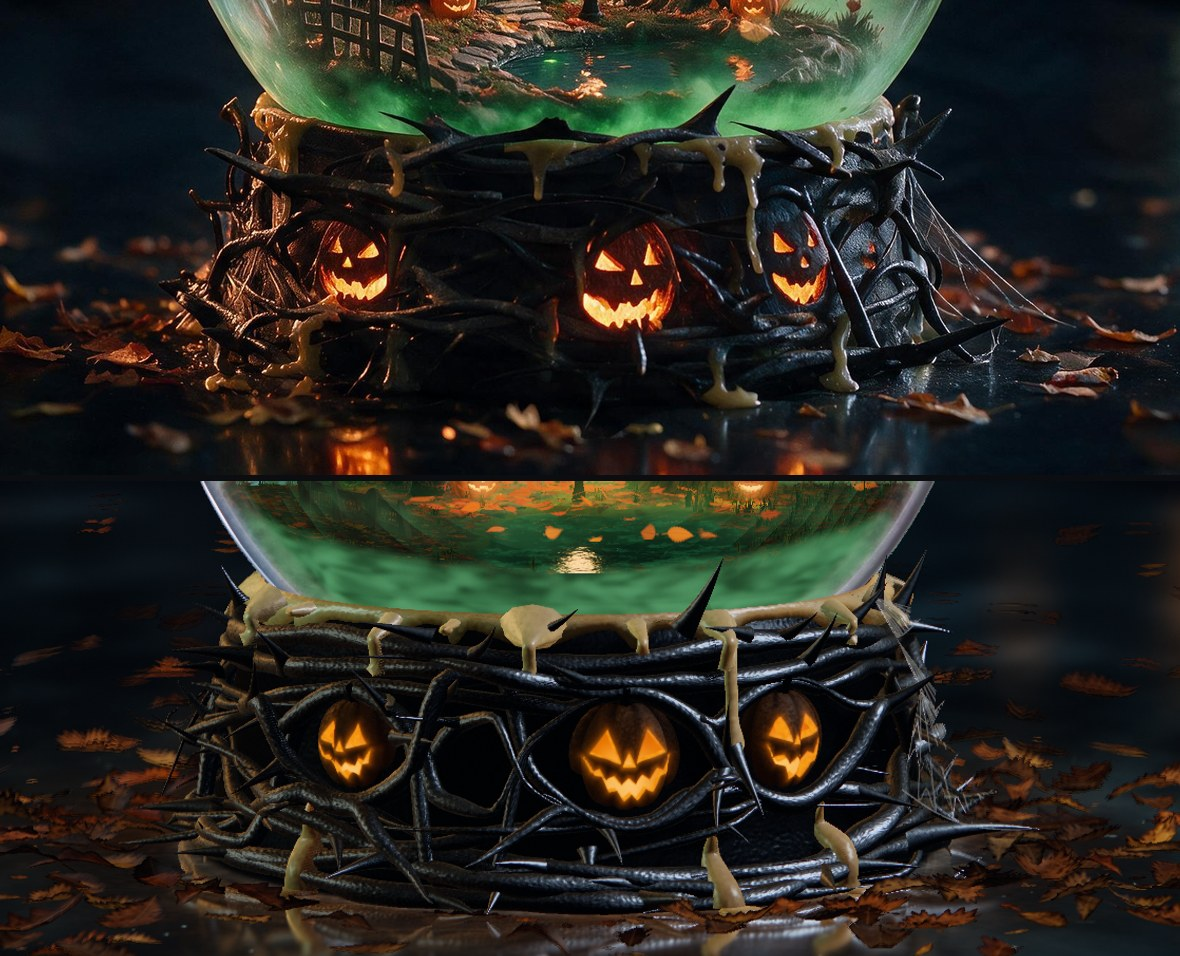
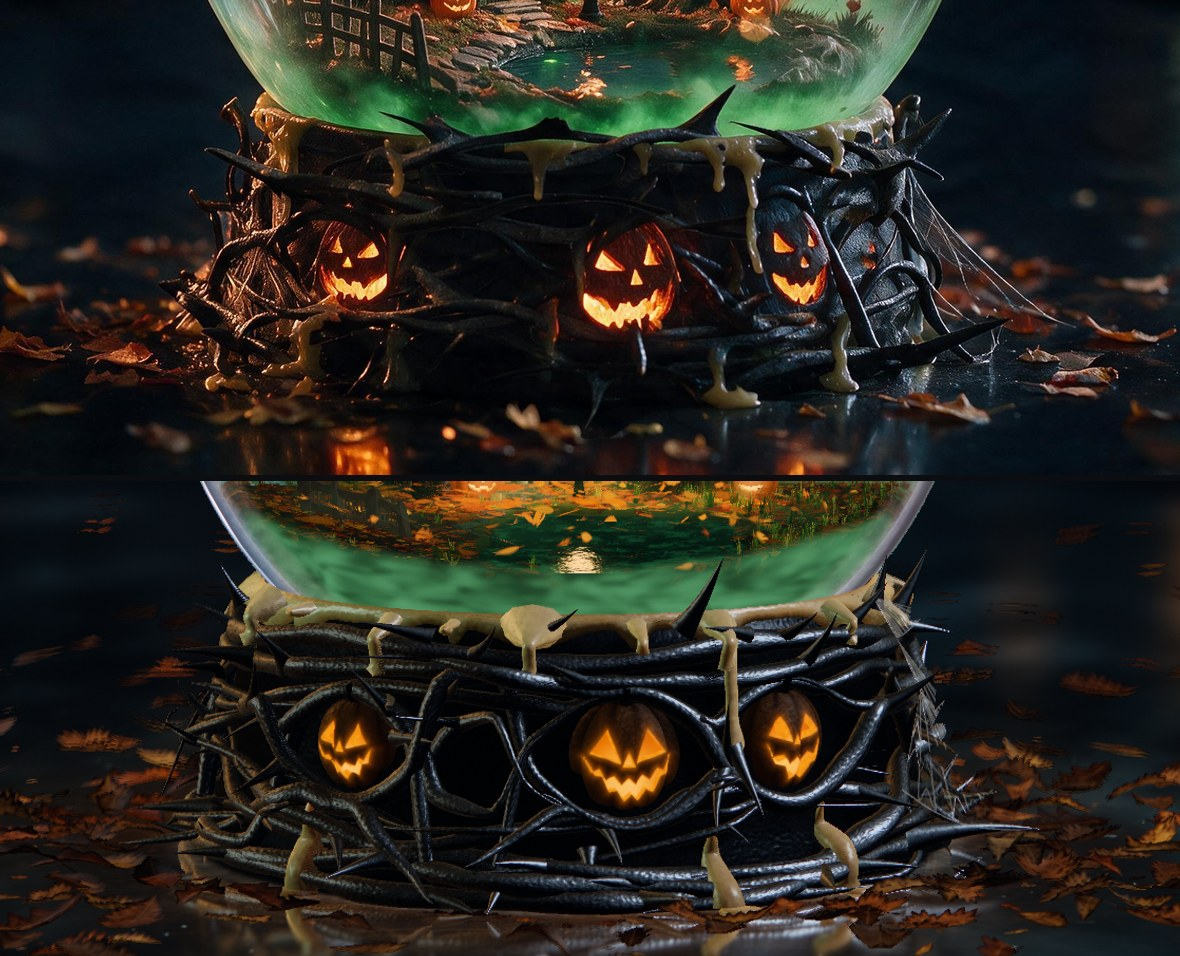
Looks at 02:45 UTC: rest pair on the tip 5e0a82e, report and handover name the tip
Make targets, in order: npm run make -- base-fall, npm run make -- slab-fall, then npm run texpack, npm run build.

Changed region(s): [[0.2136, 0.4854, 0.7627, 0.6067]]

diff --git a/HANDOVER.md b/HANDOVER.md
@@ -1,6 +1,6 @@
 # Handover: fall's base, surface dressing and arrival
 
-Written by `fall_base` for whoever takes these files next. Parts in the register: `base-fall`, `surface-dressing-fall`, `arrival-fall`. Code branch `agent/p4-fall_base`, tip f2407a8 (a merge of `main` 192ccf3 on top of b5accbf, the last change of these files); this branch (`agent/p4-fall_base-looks`) holds only pictures and these two files and is never merged.
+Written by `fall_base` for whoever takes these files next. Parts in the register: `base-fall`, `surface-dressing-fall`, `arrival-fall`. Code branch `agent/p4-fall_base`, tip 5e0a82e (merges of `main` 192ccf3 and 20710cc on top of b5accbf, the last change of these files); this branch (`agent/p4-fall_base-looks`) holds only pictures and these two files and is never merged.
 
 ## Your files
 
@@ -37,7 +37,7 @@ After a merge of `main` the other builders' folders that changed need their own 
 
 None left. Nothing in these files carries `userData.standIn`, `slab.ts` exports an empty `standIns`, and the stand-ins view at rest is black in every pixel. No fallback of `kit/03-METHOD.md` "The fallback chain" is in use: every form is geometry made by script, every map is made by script. The cobweb is the built part at a smaller size than the approved fan (see fault 3), not a stand-in.
 
-## Measured (draft tier, commit b5accbf, before the last merge of `main`)
+## Measured (draft tier, commit b5accbf, before the last two merges of `main`; not run again on the tip)
 
 - `npm run measure -- --unit fall --only M1,M2,M3,M6 --tier draft`: 19 lines, 1 red. M1, M2, M6 pass on every still (rest, shake, interior, base, surface, settled). M3 fall-rest is red at 0.3007 because of the miniature (0.301, `fall_mini`'s part); the base reads 0.892 against the 0.75 threshold.
 - Before the last iron change M3 base was 0.635 (red). Before the leaves reported their texel density M2 was red on five stills (0.19 to 0.46): the leaf shader passed 0 texels to `stageDiag` while flagged as textured. It now passes the true density (`vLeafUv * 1024`).
@@ -45,7 +45,7 @@ None left. Nothing in these files carries `userData.standIn`, `slab.ts` exports 
 - Size after texpack in `public/assets/fall/`: my seven files are 3,266,609 bytes (3.12 MiB): `base-fall.glb` 1,669,532, iron detail 658,102 + 252,208 (first), faces 61,198 + 18,576 (first), `slab-fall.glb` 315,792, `slab-leaves` 291,201.
 - Fit against the approved crop (box 620,900,2260,1560, rest): mean difference per channel 31.9, 26.0, 22.3; mean colour approved 38.0, 36.6, 32.3, render 40.6, 39.6, 31.4.
 
-- `npm run determinism` on f2407a8 (after the merge of `main` 192ccf3): "determinism: pass · 3 pictures, 4 page loads, preview, draft, 339 s". `npx tsc --noEmit` clean and `npx vitest run` 432 passed, 4 skipped on the same commit.
+- `npm run determinism` on f2407a8 (after the merge of `main` 192ccf3): "determinism: pass · 3 pictures, 4 page loads, preview, draft, 339 s". Not run again on the tip. On the tip 5e0a82e: `npx tsc --noEmit` clean, `npx vitest run` 432 passed, 4 skipped, and the rest pair rendered and viewed (`01-rest-base-pair.jpg`).
 
 ## Constants a successor should know
 
@@ -68,8 +68,8 @@ None left. Nothing in these files carries `userData.standIn`, `slab.ts` exports 
 
 ## Looks used (cap 40 a part)
 
-- `base-fall`: 38, counting two crops of renders already counted.
-- `surface-dressing-fall`: 31 (the same hero and landed pairs show it, plus one sheet of the leaf atlas).
+- `base-fall`: 39, counting two crops of renders already counted.
+- `surface-dressing-fall`: 32 (the same hero and landed pairs show it, plus one sheet of the leaf atlas).
 - `arrival-fall`: 3 motion sheets (arrival, landing, swap) and the 6 landed pairs.
 - Stand-ins view: seen once at stage 1; at the end rendered at rest, hero, draft and read as numbers (every pixel 0).
 

diff --git a/REPORT.md b/REPORT.md
@@ -1,6 +1,6 @@
 # Report: fall_base (fall's base, surface dressing and arrival)
 
-1. Branch `agent/p4-fall_base`, last commit f2407a8 (merge of `main` 192ccf3 on top of b5accbf, the last change of my files). Looks branch `agent/p4-fall_base-looks`; longer notes in `HANDOVER.md` beside this file.
+1. Branch `agent/p4-fall_base`, last commit 5e0a82e (merge of `main` 20710cc; b5accbf is the last change of my files). Looks branch `agent/p4-fall_base-looks`; longer notes in `HANDOVER.md` beside this file.
 2. Stand-ins and fallbacks: none left. Nothing in my files carries `userData.standIn`; the stand-ins view at rest, hero, draft is 0 in every pixel (read as numbers). No fallback of the kit's chain is in use; all geometry and maps are made by script, 0 generated takes.
 3. Still wrong, worst first, as a viewer of the hero would rank it:
 4. (1) The weave reads tidier and more level than the approved thorn tangle (stacked rings at crown and foot, less depth between strands). Picture 01.
@@ -14,7 +14,7 @@
 12. (9) Never viewed by me: the `macro`, `interior`, `surface` and `low` cameras as pictures, and any tier above draft.
 13. Built: `base-fall` (iron drum and collar, 2+2+2 rings, 25 branches, 18 wires, thorns that never cross a face, three pumpkins with carved faces lit from inside, wax drips and foot runs, small cobweb), 108,868 triangles; `surface-dressing-fall` (800 leaves in three sizes from one made sheet, the rim of light at the foot, candle light on the slab), 17,920 triangles; `arrival-fall` (leaves skitter on the landing, faces catch and take light one after another; the change rides the stage's bloom through `change: 'base'` and `'surface-dressing'`). `baseHeightMm` 33, collar as winter's.
 14. Make targets, in order: `npm run make -- base-fall`, `npm run make -- slab-fall`, then `npm run texpack`, then `npm run build`.
-15. Tests on f2407a8 (after the last merge): `npx tsc --noEmit` clean; `npx vitest run` printed "Tests 432 passed | 4 skipped (436)". `npm run determinism` printed "determinism: pass · 3 pictures, 4 page loads, preview, draft, 339 s".
-16. Tests on b5accbf (before the last merge, not run again after it): `npm run measure -- --unit fall --only M1,M2,M3,M6 --tier draft` printed "measure fall: complete · 19 of 19 lines, 1 red". M1, M2, M6 pass on rest, shake, interior, base, surface, settled. The red line is M3 fall-rest 0.3007, which comes from the miniature (0.301, `fall_mini`'s part); the base reads 0.892 against 0.75.
-17. Looks used (cap 40 a part): `base-fall` 38; `surface-dressing-fall` 31 (the same hero and landed pairs plus one sheet of the leaf atlas); `arrival-fall` 3 motion sheets and 6 landed pairs.
+15. Tests on 5e0a82e (the tip): `npx tsc --noEmit` clean; `npx vitest run` printed "Tests 432 passed | 4 skipped (436)"; rest pair rendered and viewed (picture 01). On f2407a8 (one merge of `main` earlier, not run again on the tip): `npm run determinism` printed "determinism: pass · 3 pictures, 4 page loads, preview, draft, 339 s".
+16. Tests on b5accbf (before the last two merges of `main`, not run again after them): `npm run measure -- --unit fall --only M1,M2,M3,M6 --tier draft` printed "measure fall: complete · 19 of 19 lines, 1 red". M1, M2, M6 pass on rest, shake, interior, base, surface, settled. The red line is M3 fall-rest 0.3007, which comes from the miniature (0.301, `fall_mini`'s part); the base reads 0.892 against 0.75.
+17. Looks used (cap 40 a part): `base-fall` 39; `surface-dressing-fall` 32 (the same hero and landed pairs plus one sheet of the leaf atlas); `arrival-fall` 3 motion sheets and 6 landed pairs.
 18. Pictures on this branch: `01-rest-base-pair.jpg`, `02-landed-base-pair.jpg`, `03-rest-base-camera.jpg` (one wax change and the iron sheen older than 01), `04-swap-sheet.jpg`; `captions.txt` says what is wrong in each.
